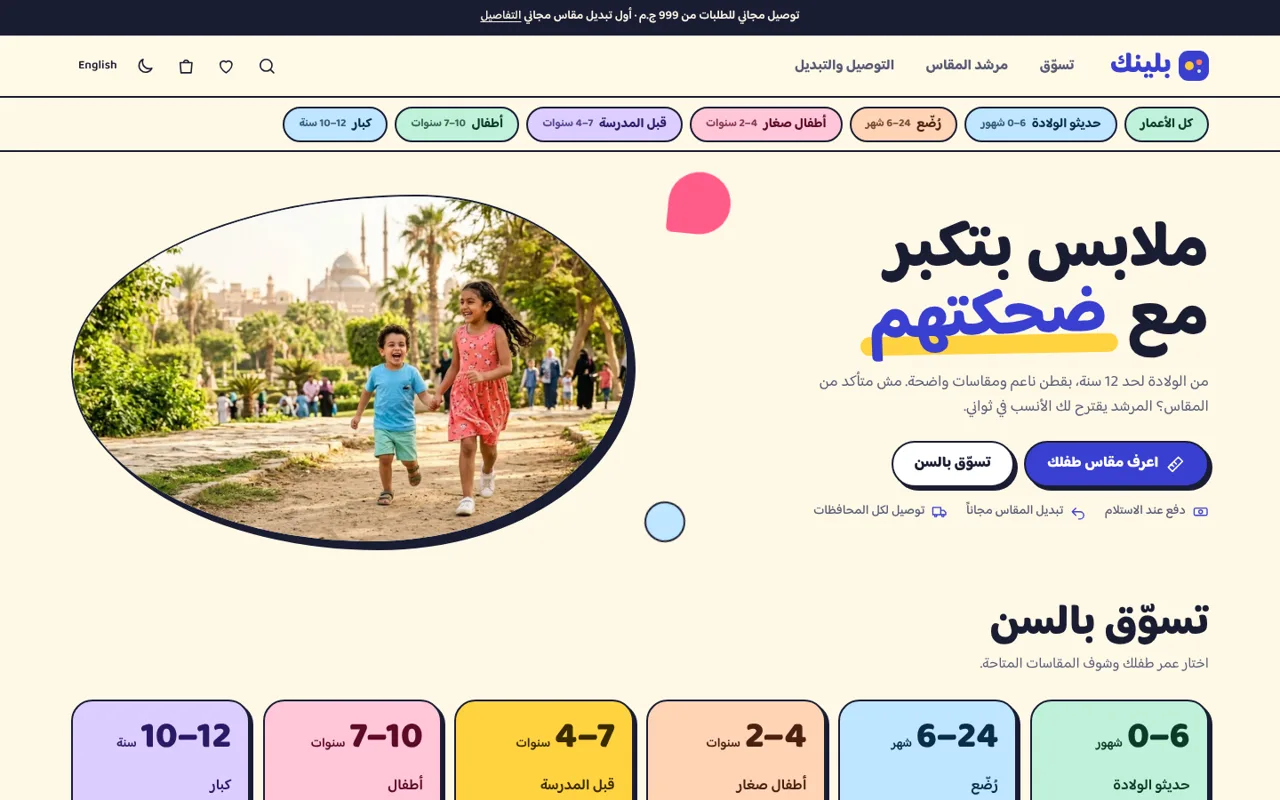
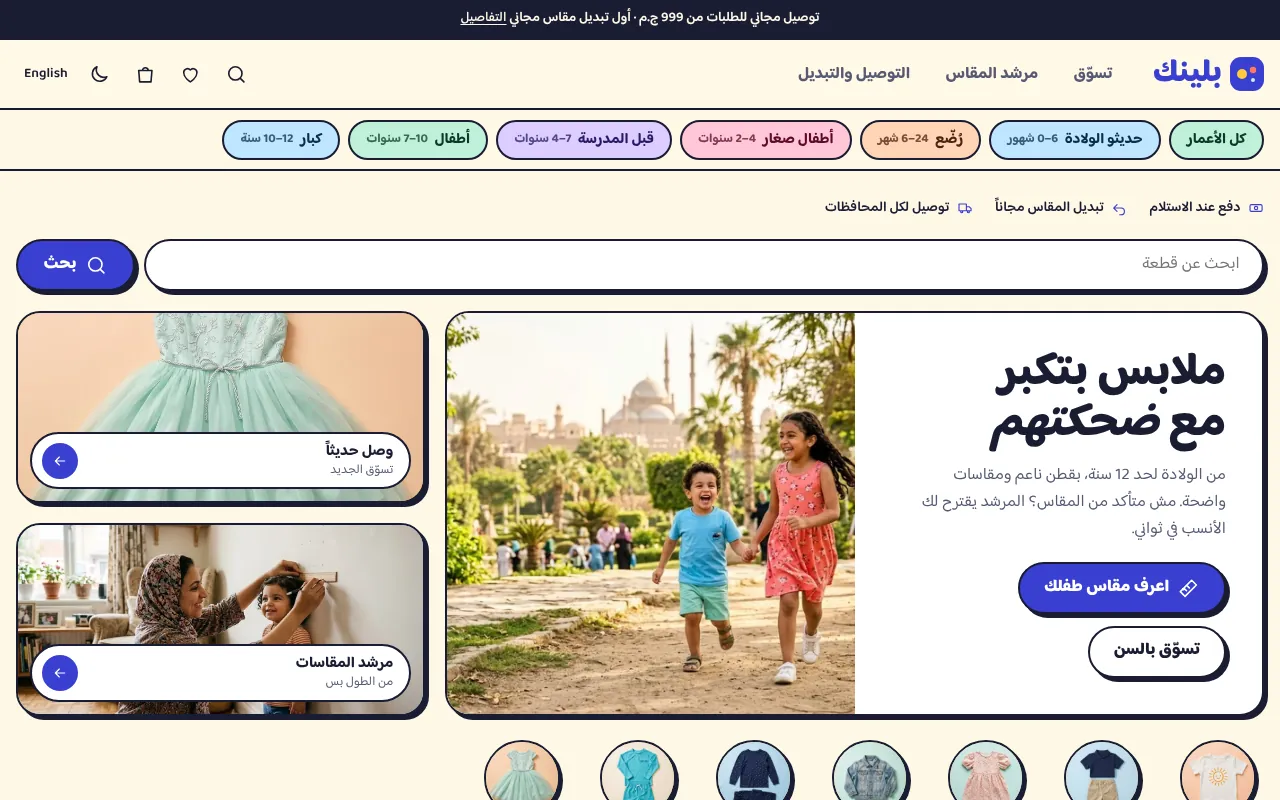
Plink: marketplace-style home top; refresh portfolio thumbnails
Claude-Session: https://claude.ai/code/session_01A2w6kttLxnttAjnHkjs6f7

diff --git a/sites/plink/app.js b/sites/plink/app.js
@@ -11,7 +11,7 @@ const T = {
     n_shop: 'تسوّق', n_size: 'مرشد المقاس', n_help: 'التوصيل والتبديل', tb_home: 'الرئيسية', tb_shop: 'تسوّق', tb_size: 'المقاس', tb_saved: 'المفضلة', tb_cart: 'السلة',
     ann: 'توصيل مجاني للطلبات من 999 ج.م · أول تبديل مقاس مجاني', ann_l: 'التفاصيل', all_ages: 'كل الأعمار',
     h1a: 'ملابس بتكبر مع ', h1b: 'ضحكتهم', h1c: '', h_p: 'من الولادة لحد 12 سنة، بقطن ناعم ومقاسات واضحة. مش متأكد من المقاس؟ المرشد يقترح لك الأنسب في ثواني.', h_c1: 'اعرف مقاس طفلك', h_c2: 'تسوّق بالسن',
-    ct1: 'دفع عند الاستلام', ct2: 'تبديل المقاس مجاناً', ct3: 'توصيل لكل المحافظات',
+    ct1: 'دفع عند الاستلام', ct2: 'تبديل المقاس مجاناً', ct3: 'توصيل لكل المحافظات', ct4: 'شحن مجاني من 999 جنيه', m_go: 'بحث', m_new: 'وصل حديثاً', m_newp: 'تسوّق الجديد', m_adv: 'مرشد المقاسات', m_advp: 'من الطول بس',
     s_age: 'تسوّق بالسن', s_age_p: 'اختار عمر طفلك وشوف المقاسات المتاحة.', s_adv: 'مقاس طفلك في ثواني', s_adv_p: 'اكتب طول طفلك ويظهر لك المقاس الأنسب من جدول مقاسات Plink. عايز دقة أعلى؟ أضف العمر والوزن في المرشد الكامل.',
     adv_go: 'اعرف المقاس', adv_full: 'المرشد الكامل', s_new: 'جديد عندنا', s_new_p: 'قطع وصلت حديثاً.', s_cat: 'تسوّق حسب النوع', s_best: 'الأكثر طلباً', all: 'عرض الكل',
     tr1: 'تبديل المقاس مجاناً', tr1p: 'أول تبديل مقاس خلال 14 يوم من الاستلام من غير رسوم (سياسة افتراضية للعرض).', tr2: 'دفع عند الاستلام', tr2p: 'ادفع كاش أو بالبطاقة عند الباب. رسوم الدفع عند الاستلام 15 ج.م.', tr3: 'قماش مريح للبشرة', tr3p: 'قطن ناعم وطبعات مائية، وبطاقة غسيل واضحة لكل قطعة.', tr4: 'مقاسات واضحة', tr4p: 'كل قطعة بالعمر والطول، ومرشد مقاس يقلل البدل.',
@@ -40,7 +40,7 @@ const T = {
     n_shop: 'Shop', n_size: 'Size advisor', n_help: 'Delivery & exchange', tb_home: 'Home', tb_shop: 'Shop', tb_size: 'Size', tb_saved: 'Saved', tb_cart: 'Cart',
     ann: 'Free delivery over EGP 999 · First size exchange is free', ann_l: 'Details', all_ages: 'All ages',
     h1a: 'Clothes that grow with every ', h1b: 'giggle', h1c: '', h_p: 'From newborn to 12 years, in soft cotton with clear sizing. Not sure of the size? The advisor suggests the best fit in seconds.', h_c1: 'Find your child’s size', h_c2: 'Shop by age',
-    ct1: 'Cash on delivery', ct2: 'Free size exchange', ct3: 'Delivery nationwide',
+    ct1: 'Cash on delivery', ct2: 'Free size exchange', ct3: 'Delivery nationwide', ct4: 'Free shipping from 999 EGP', m_go: 'Search', m_new: 'Just arrived', m_newp: 'Shop new in', m_adv: 'Size advisor', m_advp: 'From height only',
     s_age: 'Shop by age', s_age_p: 'Pick your child’s age and see the sizes in stock.', s_adv: 'Your child’s size in seconds', s_adv_p: 'Enter your child’s height and see the closest size in the Plink chart. Want more accuracy? Add age and weight in the full advisor.',
     adv_go: 'Find the size', adv_full: 'Full advisor', s_new: 'New in', s_new_p: 'Just arrived.', s_cat: 'Shop by type', s_best: 'Most loved', all: 'View all',
     tr1: 'Free size exchange', tr1p: 'Your first size exchange within 14 days of delivery costs nothing (illustrative policy).', tr2: 'Cash on delivery', tr2p: 'Pay cash or by card at the door. COD fee is EGP 15.', tr3: 'Gentle on skin', tr3p: 'Soft cotton and water-based prints, with a clear care label on every piece.', tr4: 'Clear sizing', tr4p: 'Every piece shows age and height, and the size advisor cuts exchanges.',
@@ -303,16 +303,30 @@ function miniAdv() {
 
 /* ---------- views ---------- */
 const bandOf = (id) => BANDS.find(b => b.id === id);
+function mSearch() {
+  const inp = h('input', { class: 'in', type: 'search', maxlength: 40, name: 'q', 'aria-label': t('f_q'), placeholder: t('f_q'), autocomplete: 'off' });
+  const f = h('form', { class: 'msearch', role: 'search' }, inp, h('button', { class: 'btn btn--p', type: 'submit' }, ic('search'), t('m_go')));
+  f.addEventListener('submit', (e) => { e.preventDefault(); const v = inp.value.trim().slice(0, 40); location.hash = '#/shop' + (v ? '?q=' + encodeURIComponent(v) : ''); });
+  return h('div', { class: 'msw' }, f);
+}
+function mTile(href, img, title, sub, tone) {
+  return h('a', { class: 'mtile t-' + tone, href }, h('img', { src: IMG + img + '.webp', alt: '', width: 800, height: 800, loading: 'lazy' }), h('span', { class: 'mtile__l' }, h('b', { text: title }), h('small', { text: sub }), h('i', null, ic('arrow', 'flip'))));
+}
 function vHome() {
   const news = P.filter(p => p.isNew), best = P.filter(p => p.best);
   return h('div', null,
-    h('div', { class: 'wrap hero' }, h('div', null, h('h1', { id: 'pt', tabindex: '-1' }, t('h1a'), h('em', { text: t('h1b') }), t('h1c')), h('p', { text: t('h_p') }), h('div', { class: 'hero__cta' }, h('a', { class: 'btn btn--p', href: '#/size' }, ic('ruler'), t('h_c1')), h('a', { class: 'btn btn--o', href: '#/shop' }, t('h_c2'))),
-      h('div', { class: 'chips-t' }, [['cash', 'ct1'], ['undo', 'ct2'], ['truck', 'ct3']].map(([i, k]) => h('span', null, ic(i), t(k))))),
-      h('div', { class: 'hero__img' }, h('img', { src: IMG + 'hero.webp', alt: '', width: 1600, height: 893, fetchpriority: 'high' }))),
+    h('div', { class: 'wrap mkt' },
+      h('ul', { class: 'mtrust' }, [['cash', 'ct1'], ['undo', 'ct2'], ['truck', 'ct3']].map(([i, k]) => h('li', null, ic(i), t(k)))),
+      mSearch(),
+      h('div', { class: 'mgrid' },
+        h('div', { class: 'mmain' }, h('div', { class: 'mmain__t' }, h('h1', { id: 'pt', tabindex: '-1' }, t('h1a'), h('em', { text: t('h1b') }), t('h1c')), h('p', { text: t('h_p') }), h('div', { class: 'hero__cta' }, h('a', { class: 'btn btn--p', href: '#/size' }, ic('ruler'), t('h_c1')), h('a', { class: 'btn btn--o', href: '#/shop' }, t('h_c2')))), h('div', { class: 'mmain__i' }, h('img', { src: IMG + 'hero.webp', alt: '', width: 1600, height: 893, fetchpriority: 'high' }))),
+        h('div', { class: 'mside' },
+          mTile('#/shop?sort=n', 'p-party-dress', t('m_new'), t('m_newp'), 'sun'),
+          mTile('#/size', 'size-measure', t('m_adv'), t('m_advp'), 'sky'))),
+      h('nav', { class: 'mcats', 'aria-label': t('s_cat') }, CATS.map(c => h('a', { href: '#/shop?cat=' + c.id }, h('span', { class: 'mc' }, h('img', { src: IMG + c.img + '.webp', alt: '', width: 160, height: 160 })), h('b', { text: pick(c) }))))),
     h('section', { class: 'wrap sec', style: 'padding-block-start:1rem' }, head(t('s_age'), t('s_age_p')), h('div', { class: 'ages' }, BANDS.map(b => h('a', { class: 'age t-' + b.tone, href: '#/shop?age=' + b.id, 'aria-label': `${pick(b)} · ${pick({ ar: b.sar, en: b.sen })}` }, h('b', null, b.big, h('small', { text: pick({ ar: b.uar, en: b.uen }) })), h('span', { text: pick(b) }), ic('arrow', 'flip'))))),
     h('section', { class: 'band' }, h('div', { class: 'wrap sec adv-band' }, h('img', { src: IMG + 'size-measure.webp', alt: '', width: 1200, height: 805, loading: 'lazy' }), h('div', null, h('span', { class: 'badge badge--ai' }, ic('spark'), t('a_t')), h('h2', { style: 'font-size:clamp(1.6rem,3.2vw,2.4rem);margin-block:.7rem .5rem', text: t('s_adv') }), h('p', { style: 'color:var(--mut)', text: t('s_adv_p') }), miniAdv()))),
     h('section', { class: 'wrap sec' }, head(t('s_new'), t('s_new_p'), '#/shop?sort=n'), h('div', { class: 'hrail', role: 'region', 'aria-label': t('s_new'), tabindex: '0' }, news.map(pcard))),
-    h('section', { class: 'wrap', style: 'padding-block-end:clamp(2rem,5vw,4.5rem)' }, head(t('s_cat')), h('div', { class: 'cats' }, CATS.map(c => h('a', { class: 'cat', href: '#/shop?cat=' + c.id }, h('img', { src: IMG + c.img + '.webp', alt: '', width: 800, height: 800, loading: 'lazy' }), h('span', null, pick(c), ic('arrow', 'flip')))))),
     h('section', { class: 'band' }, h('div', { class: 'wrap sec' }, head(t('s_best'), null, '#/shop'), h('div', { class: 'grid' }, best.map(pcard)))),
     h('section', { class: 'wrap sec' }, h('ul', { class: 'trust' }, [['undo', 'tr1'], ['cash', 'tr2'], ['leaf', 'tr3'], ['ruler', 'tr4']].map(([i, k]) => h('li', null, ic(i), h('h3', { text: t(k) }), h('p', { text: t(k + 'p') }))))),
     h('section', { class: 'band' }, h('div', { class: 'wrap sec' }, head(t('s_rev'), t('s_rev_p')), h('div', { class: 'cards3' }, REVIEWS.map(r => { const p = prod(r.p); return h('article', { class: 'box' }, h('div', { class: 'stars', role: 'img', 'aria-label': `${r.r} / 5` }, '★'.repeat(r.r) + '☆'.repeat(5 - r.r)), h('p', { text: pk2(r.t) }), fitMeter(r.k), h('p', { class: 'note', text: `${pk2(r.n)} · ${pk2(r.c)} · ${t('on')} ${pick(p)}` })); })))),

diff --git a/sites/plink/app.css b/sites/plink/app.css
@@ -198,3 +198,36 @@ span.pill,span.chip,span.kick,span.tag{border-radius:8px}
 .fitm span{padding-block:.55rem}
 .age b{display:block;padding-block:.2rem}
 .fitm span{padding-inline:.9rem}
+
+/* marketplace-style home top */
+.mkt{padding-block:clamp(.9rem,2.5vw,1.6rem) clamp(1.5rem,4vw,2.5rem);display:grid;gap:clamp(.9rem,2vw,1.25rem)}
+.mtrust{list-style:none;margin:0;padding:0;display:flex;flex-wrap:wrap;gap:.35rem 1.4rem;font-size:max(12px,.875rem);font-weight:600}
+.mtrust li{display:inline-flex;align-items:center;gap:.45rem}.mtrust .ic{inline-size:1.15em;block-size:1.15em;color:var(--p);flex:none}
+[data-theme=dark] .mtrust .ic{color:var(--sun)}
+.msw{display:grid;gap:.7rem}
+.msearch{display:flex;gap:.6rem;align-items:stretch}.msearch .in{flex:1 1 auto;min-inline-size:0;min-block-size:3.25rem;border:var(--ol);border-radius:99px;padding-inline:1.4rem;background:var(--card);box-shadow:var(--hs)}
+.msearch .btn{flex:none;min-block-size:3.25rem}
+.mchips{display:flex;gap:.5rem;flex-wrap:wrap}.mchips .chip{text-decoration:none}
+.mgrid{display:grid;grid-template-columns:minmax(0,2fr) minmax(0,1fr);gap:clamp(.9rem,2vw,1.25rem)}
+.mmain{display:grid;grid-template-columns:1fr 1fr;border:var(--ol);border-radius:var(--r2);box-shadow:var(--hs);background:var(--card);overflow:hidden;position:relative;isolation:isolate}
+.mmain__t{padding:clamp(1.25rem,3vw,2.25rem);display:flex;flex-direction:column;justify-content:center}
+.mmain h1{font-size:clamp(1.9rem,3.6vw,3.1rem);line-height:1.1;margin:0}
+.mmain p{margin:.8rem 0 1.2rem;color:var(--mut);max-inline-size:40ch;font-size:clamp(.95rem,1.3vw,1.05rem)}
+.mmain__i{position:relative;background:var(--mint);min-block-size:260px}.mmain__i img{position:absolute;inset:0;inline-size:100%;block-size:100%;object-fit:cover}
+.mside{display:grid;grid-template-rows:1fr 1fr;gap:clamp(.9rem,2vw,1.25rem)}
+.mtile{position:relative;display:block;overflow:hidden;border:var(--ol);border-radius:var(--r2);box-shadow:var(--hs);min-block-size:150px;background:var(--sun);color:var(--ink);text-decoration:none}
+.mtile.t-sky{background:var(--sky)}[data-theme=dark] .mtile.t-sun{background:var(--sun);color:var(--on-sun)}
+.mtile img{position:absolute;inset:0;inline-size:100%;block-size:100%;object-fit:cover;transition:transform .5s}.mtile:hover img{transform:scale(1.04)}
+.mtile__l{position:absolute;inset-inline:.75rem;inset-block-end:.75rem;display:grid;grid-template-columns:1fr auto;align-items:center;column-gap:.6rem;padding:.55rem .6rem .55rem 1rem;padding-inline:1rem .6rem;border:var(--ol);border-radius:99px;background:var(--card);color:var(--ink)}
+.mtile__l b{font-size:max(13px,.95rem);line-height:1.2}.mtile__l small{grid-column:1;font-size:max(12px,.8rem);color:var(--mut);line-height:1.2}
+.mtile__l i{grid-column:2;grid-row:1/3;display:grid;place-items:center;inline-size:2.25rem;block-size:2.25rem;border-radius:50%;background:var(--p);color:var(--on-p);font-style:normal}
+.mtile__l i .ic{inline-size:1rem;block-size:1rem}
+.mcats{display:flex;gap:clamp(.9rem,2.5vw,1.75rem);overflow-x:auto;padding:.25rem .15rem .6rem;scrollbar-width:thin}
+.mcats a{flex:none;display:grid;justify-items:center;gap:.5rem;inline-size:5.5rem;text-decoration:none;color:var(--ink)}
+.mc{display:block;inline-size:4.75rem;block-size:4.75rem;border:var(--ol);border-radius:50%;overflow:hidden;background:var(--s2);box-shadow:3px 3px 0 var(--ink);transition:transform .25s cubic-bezier(.3,1.6,.5,1)}.mcats a:hover .mc{transform:translateY(-3px) rotate(-3deg)}
+.mc img{inline-size:100%;block-size:100%;object-fit:cover;display:block}
+.mcats b{font-size:max(12px,.8125rem);font-weight:600;text-align:center;line-height:1.3}
+@media(max-width:1000px){.mgrid{grid-template-columns:1fr}.mside{grid-template-columns:1fr 1fr;grid-template-rows:none}.mtile{aspect-ratio:4/3;min-block-size:0}}
+@media(max-width:700px){.mmain{grid-template-columns:1fr}.mmain__i{order:-1;min-block-size:0;aspect-ratio:16/10}.msearch .btn{padding-inline:1rem}.msearch .btn .ic{display:none}.mtile__l{inset-inline:.5rem;inset-block-end:.5rem;padding-block:.4rem}.mtile__l i{inline-size:2rem;block-size:2rem}}
+@media(max-width:420px){.mtile__l small{display:none}.mtile__l i{grid-row:1}}
+.mmain .hero__cta{flex-wrap:wrap}.mmain .hero__cta .btn{flex:0 1 auto;white-space:nowrap}
